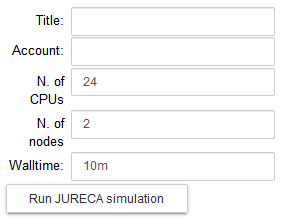
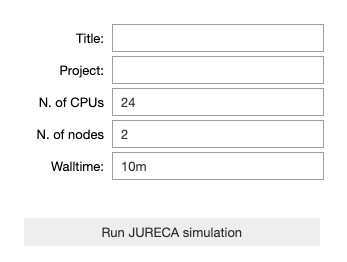
inserted firt version of cerebro-cerebellar use case; replaced/deleted images in synaptic events fitting use cases

Changed region(s): [[0.0283, 0.0269, 0.9894, 0.8072], [0.0, 0.6996, 0.9611, 0.9686]]

diff --git a/source/online_usecases/brain_area_circuit_in_silico_experiments/cerebrocerebellar/cerebrocerebellar_closed_loop_experiment/cerebrocerebellar_closed_loop_experiment.rst b/source/online_usecases/brain_area_circuit_in_silico_experiments/cerebrocerebellar/cerebrocerebellar_closed_loop_experiment/cerebrocerebellar_closed_loop_experiment.rst
@@ -1,11 +1,17 @@
-##########################################################
+############################################################################
 Closed-loop modelling and validation of large scale cerebro-cerebellar loops
-##########################################################
+############################################################################
 
 
-This use-case shows a modeling effort of whole brain functionalities by leveraging on the existing cerebellar models. We model and simulate the forward and inverse controller functions of the cerebrocortical-cerebellar loops in a closed-loop setting, emulating error-based learning and action prediction.
+This Use Case shows a modeling effort of whole brain functionalities by 
+leveraging the existing cerebellar models. We model and simulate the forward 
+and inverse controller functions of the cerebrocortical-cerebellar loops in a 
+closed-loop setting, emulating error-based learning and action prediction.
 
-The cerebellum model, made of single-point neurons with non-linear dynamics), leverages on the scaffold developed in Task 6.2.2 (see Use-cases on Cerebellum models) and is embedded with long-term synaptic plasticity rules for implicit learning.
+The cerebellum model, made of single-point neurons with non-linear dynamics), 
+leverages the scaffold developed in Task 6.2.2 (see Use Cases on Cerebellum 
+models) and is embedded with a long-term synaptic plasticity rules for implicit 
+learning.
 
 The Use Case can be found in *Online Use Cases/Brain area circuit in silico experiments/Cerebro-Cerebellar loops/Cerebro-Cerebellar closed loop experiment*.
 
@@ -15,11 +21,19 @@ The Use Case can be found in *Online Use Cases/Brain area circuit in silico expe
 
 **Simulation description:**
 
-The cerebellum models are split into two modules, one operating in feed-forward mode (receiving motor command, i.e. the efference copy, and generating a sensory error prediction) and the other operating in inverse mode (receiving the sensory information of the desired target and generating compensatory motor commands). The two modules are connectes as depicted in the following figure:
+The cerebellum models are split into two modules, one operating in feed-forward 
+mode (receiving motor command, i.e. the efference copy, and generating a 
+sensory error prediction) and the other operating in inverse mode (receiving 
+the sensory information of the desired target and generating compensatory motor 
+commands). The two modules are connected as depicted in the following figure:
 
- 
+| 
 
-The model is used to simulate a specific sensorimotor task in closed-loop. We emulate a pointing task perturbed by prismatic glasses. The cerebellar modules allow to achieve complementary processing able to predict a sensory discrepancy and compensatory motor commands. Therefore, the cerebellum works as a general-purpose massive predictive machine in whole-brain modular systems.
+The model is used to simulate a specific sensorimotor task in closed-loop. 
+We emulate a pointing task perturbed by prismatic glasses. The cerebellar 
+modules allow to achieve complementary processing able to predict a sensory 
+discrepancy and compensatory motor commands. Therefore, the cerebellum works 
+as a general-purpose massive predictive machine in whole-brain modular systems.
 
 
 **Inputs:**
@@ -44,4 +58,4 @@ The model is used to simulate a specific sensorimotor task in closed-loop. We em
 3) Simulation
 
 •	The whole Use Case should take about 1 hour for a volume base of 400 x 400 µm.
-•	BSP tool used in the notebook: pyNEST
+•	The BSP foundation software used in the notebook is pyNEST

diff --git a/source/online_usecases/brain_area_circuit_in_silico_experiments/cerebrocerebellar/cerebrocerebellar.rst b/source/online_usecases/brain_area_circuit_in_silico_experiments/cerebrocerebellar/cerebrocerebellar.rst
@@ -1,3 +1,9 @@
+.. _cerebro_cerebellar:
+
+############################################################################
+Closed-loop modelling and validation of large scale cerebro-cerebellar loops
+############################################################################
+
 .. toctree::
     :maxdepth: 4
 

diff --git a/source/online_usecases/trace_analysis/syn_events_fituser_mod/syn_events_fituser_mod.rst b/source/online_usecases/trace_analysis/syn_events_fituser_mod/syn_events_fituser_mod.rst
@@ -99,7 +99,7 @@ On NSG the number of nodes, number of cores and runtime are set by default to 2,
 
 .. container:: bsp-container-center
 
-    .. image:: images/submission_process.png
+    .. image:: images/submission_process_02.png
         :width: 650px
         :align: center
 

diff --git a/source/online_usecases/trace_analysis/syn_events_fit_user_data/syn_events_fit_user_data.rst b/source/online_usecases/trace_analysis/syn_events_fit_user_data/syn_events_fit_user_data.rst
@@ -88,7 +88,7 @@ nsghelp@sdsc.edu. The maximum number of cores required per node is 24.
 
 .. container:: bsp-container-center
 
-    .. image:: images/submission_process2.png
+    .. image:: images/submission_process_02.png
         :width: 650px
         :align: center
 

diff --git a/source/online_usecases/brain_area_circuit_in_silico_experiments/hippocampus/hippocampus.rst b/source/online_usecases/brain_area_circuit_in_silico_experiments/hippocampus/hippocampus.rst
@@ -9,4 +9,3 @@ Hippocampus
 
     configure_and_run_a_hippocampus_column/configure_and_run_a_hippocampus_column
     configure_run_brainregion_preconf_model_data/configure_run_brainregion_preconf_model_data
-
